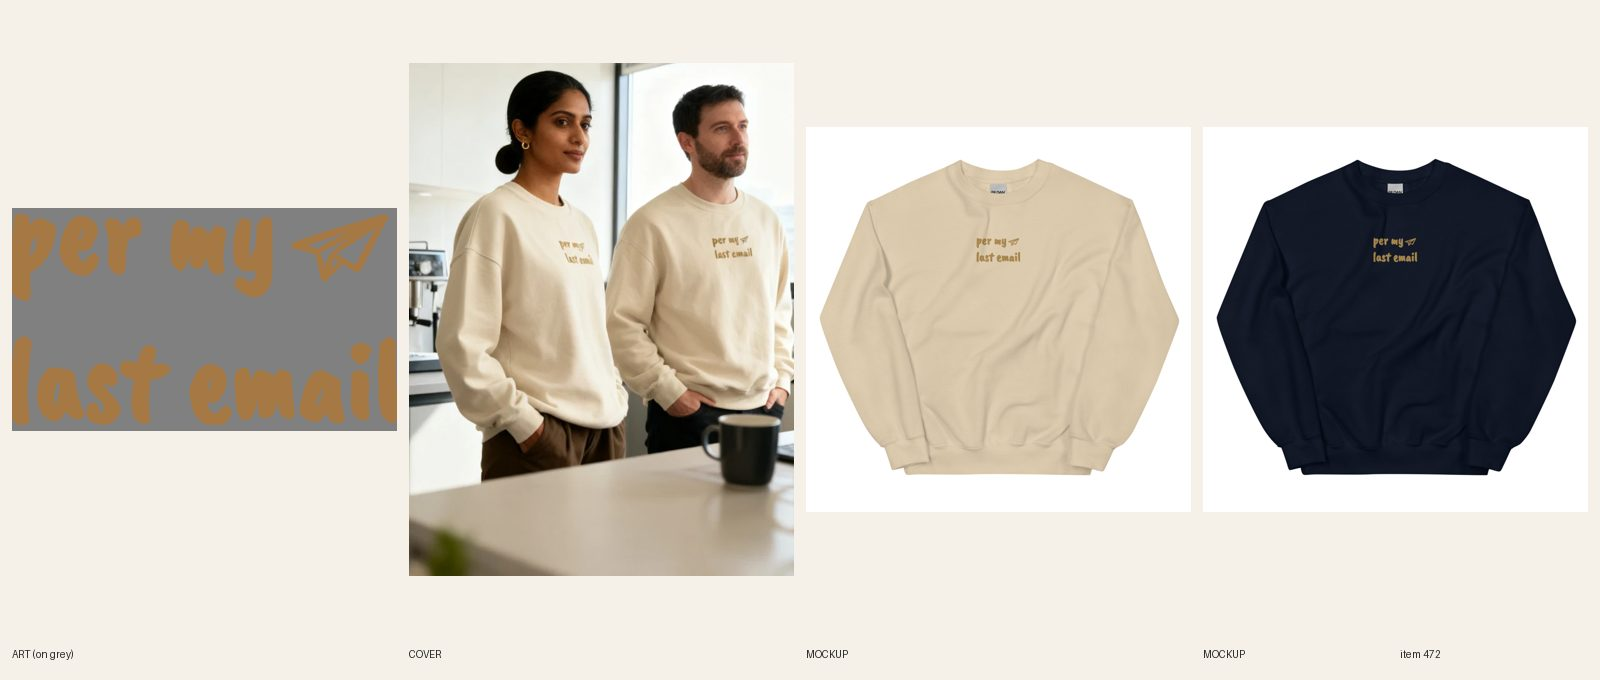
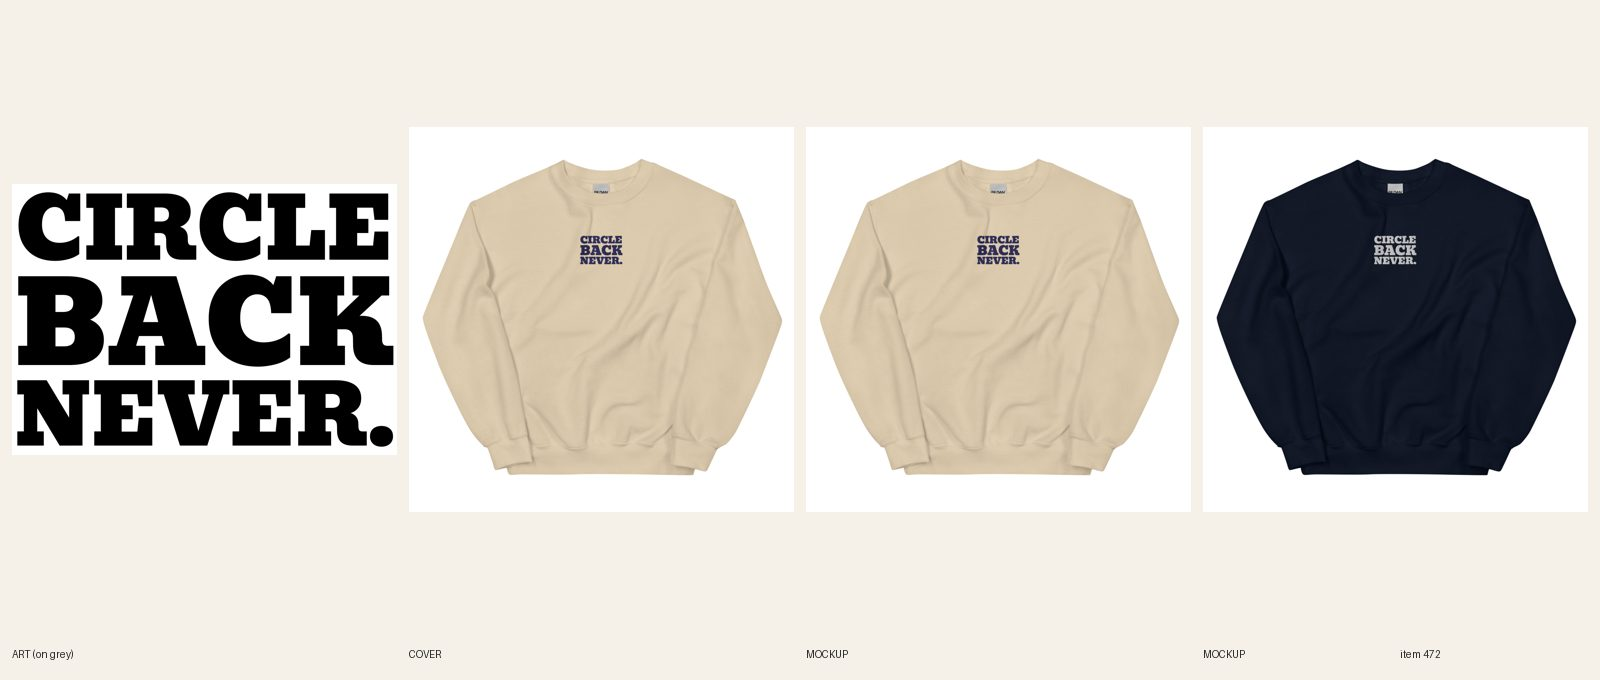
[E] review 472 redid #472 Unisex Embroidered crewneck (line + type: CIRCLE / BACK / NEVER., twin of #473 hoodie, Sand navy thread + Navy white thread, 12/12 synced). REVIEW. fal $0.

diff --git a/docs/pipeline/472-embroidered-crew-per-my-last-email.md b/docs/pipeline/472-embroidered-crew-per-my-last-email.md
@@ -1,4 +1,4 @@
-status: REDO
+status: REVIEW
 lane: E
 type: new
 id: 472
@@ -34,3 +34,4 @@ kd: 24
 - 2026-10-18 00:55 UTC builder [E]: REVIEW. Art: first Recraft script try garbled ('my' doubled, flourishes), so words set in a real hand font (Caveat Brush, two lines 'per my' / 'last email', deviation from the one-line brief to fill 4 in at legible x-height) via PIL, plus a Recraft paper plane (isolated from its messy trail); emb-prep 4.00 x 2.18 in, strokes 1.66 mm, thread #A67843 old gold (reads on Sand and Navy mockups; weaker on Sand, kept). Printful file 1088588157, sync 482534432 12/12 via pf-emb-sync (back logo kept), mockups pf-emb-mockup (Sand + Navy front, back). Copy updated to match the real art (two lines, plane beside line one, no dotted path). Cover registry #676/#677 try 1 (Sand mockup as --design, true-scale prompt); raw had baked white bars, cropped; both wear crewnecks, nothing over print, print reads. Variant-photo audit clean, audit --handle only 'not visible'. fal ~$0.2 this item.
 - 2026-10-18 00:29 UTC director: LIVE. Two-line Caveat Brush reads on both colors at true scale; mug sits on the counter, clear of the print. ACTIVE + Online Store/Headless/Google & YouTube, audit PASS 0 warn.
 - 2026-10-18 17:22 UTC director: QUALITY RESET grade C (new line + type), REDO. The product stays ACTIVE (same handle, URL, title keyword). 1. Line (R3.12, quality-reset 'Lines'): "per my last email": Overused office meme phrase; stale, no new twist. Write 5 candidates, keep the one a stranger laughs at in 3 seconds without backstory; kill lines that only describe the picture; if none of the 5 is funny, PARK it. 2. Quality reset type bar (docs/backlog/quality-reset.md, 'The new bar'): headline at least 90% of the art width, heavy, colors pulled from the art; second line at least 45% of the headline's height, never a thin script on a dark or mid garment; use the lettering as a shape (arch, stacked lockup, words breaking into the art), not a plain bar above and a script line below; no font used on more than 1 in 6 of the last 30 designs. 3. Keep the art if it carries the new line, else one new illustration (R4/R5). New print means a new cover per R6.10, copy line one rewritten for the new joke (R8.3), and a fresh review sheet (R7.7). While quality-reset.md says PAUSED, only lane A builds, and only the samples step 2 names.
+- 2026-10-20 06:20 UTC builder [E]: REDO 472 (C grade, line + type) done in place (stays ACTIVE, handle unchanged; title now Unisex Embroidered – Circle Back, Never Crewneck Sweatshirt). It is the crewneck twin of #473 (lane B redo, 'Circle Back, Never', picked there from 5 candidates: CIRCLE BACK / NEVER.; Per My Last Email (old, stale); Reply All, Regret Everything; Seen. Not Replying.; Muted On Purpose), so the same embroidery files are reused: Bevan caps on three lines, 3.87 x 2.61 in (inside 4 x 4 in), thinnest stroke 3.73 mm, capitals about 0.5 in (min 0.3). Thread per color from Printful's palette: Sand #333366 (file 1090193998), Navy #FFFFFF (file 1090194003). No new art, fal $0. 12/12 synced on the new embroidery_chest_center file per color (verified per color), back logo kept. Front + Sand back mockups replaced in place (pf-emb-mockup, style 1139/1140, crewneck 145), alts, title, SEO, copy and FAQs rewritten (thread colors named from the mockups, old gold removed). Phone-size read OK on both (small at 400 px by the 4 in embroidery limit, same as #473). Cover: no AI cover was on the item (plain product shot kept; handle in retired-covers.json). audit PASS 0 warn, build OK. Sheet docs/review/472.jpg.

diff --git a/docs/intake-log.md b/docs/intake-log.md
@@ -1,5 +1,6 @@
 RUNNING director since 2026-10-20 06:16 UTC
 RUNNING helper since 2026-10-20 05:44 UTC
+2026-10-20 06:20 UTC — [E] Builder run: redid #472 Unisex Embroidered crewneck (line + type: CIRCLE / BACK / NEVER., twin of #473 hoodie, Sand navy thread + Navy white thread, 12/12 synced). REVIEW. fal $0.
 2026-10-20 06:11 UTC — [A] Builder run: redid #332 Women's NYE Resolutions Pending tee (line+type: NEW YEAR, NEW ME. / STARTING JAN 2., same disco ball art, Bevan full width, file 1090193042, 30/30 relinked, 5 fronts replaced in place, copy updated, plain product shot). REVIEW. fal $0.
 RUNNING lane B since 2026-10-20 05:30 UTC
 2026-10-20 06:05 UTC — [B] Builder run: redid #440 round 2 (OUT OF OFFICE. / IN THE MUD., punch widened to headline width (Navy + Dust; Dust file copied as -sand name). headline 3600 px / punch 3600 px, FW 1550 TOP 0 on the oversized blank (9.8 in tall, catalog 892)). REVIEW. fal $0.
